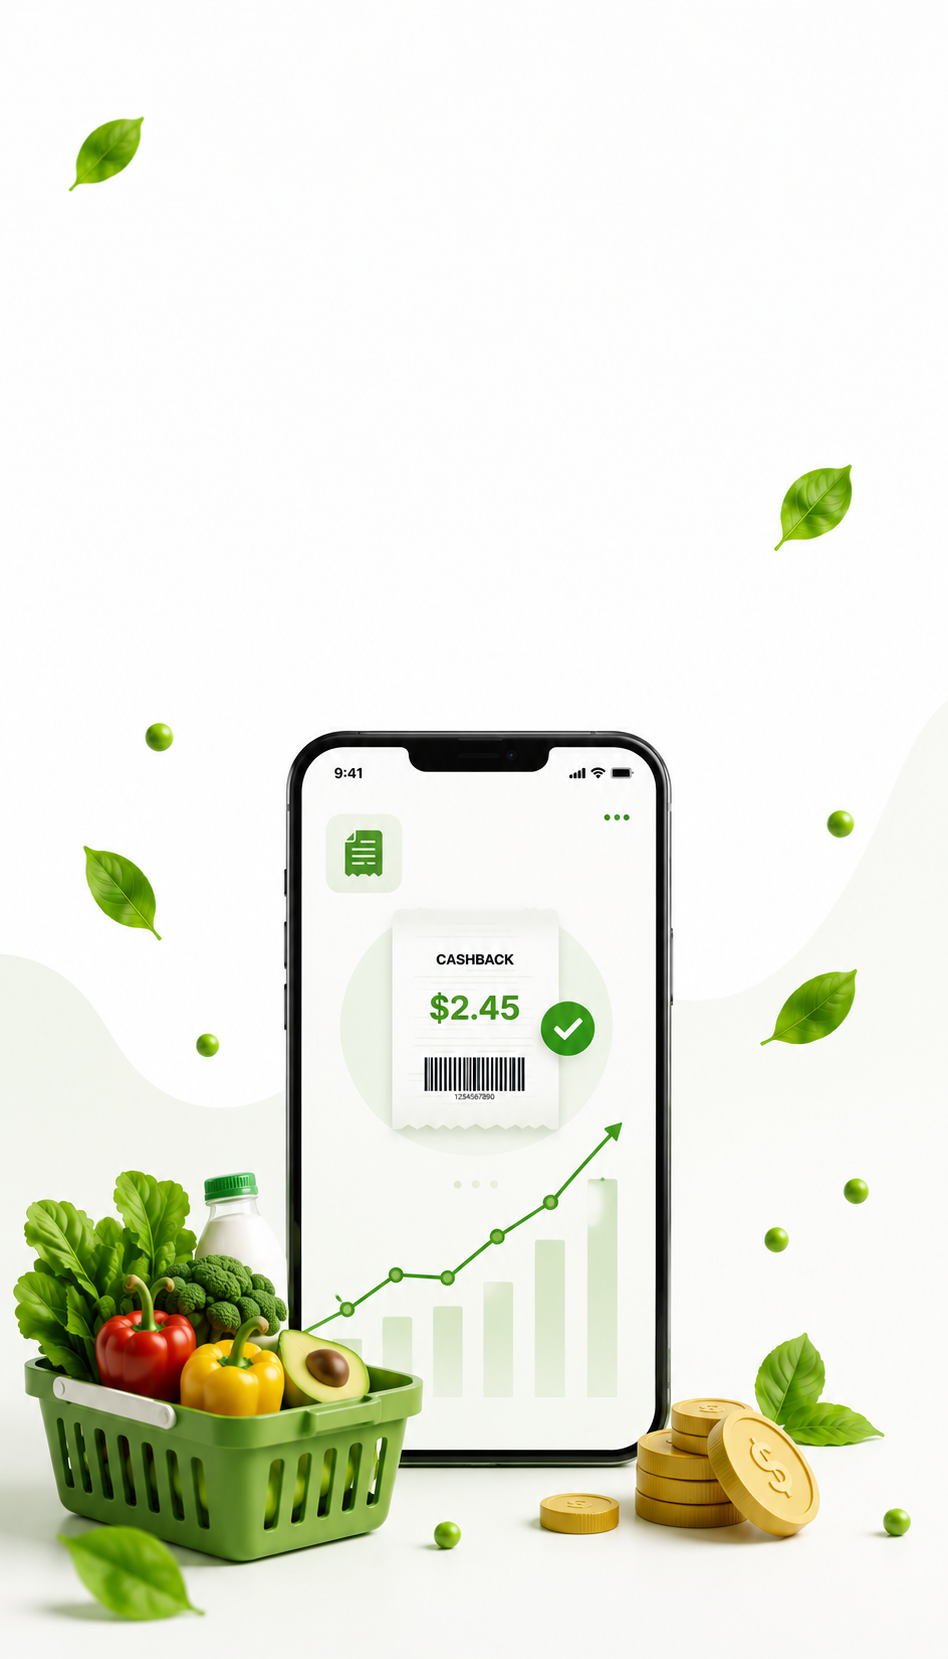
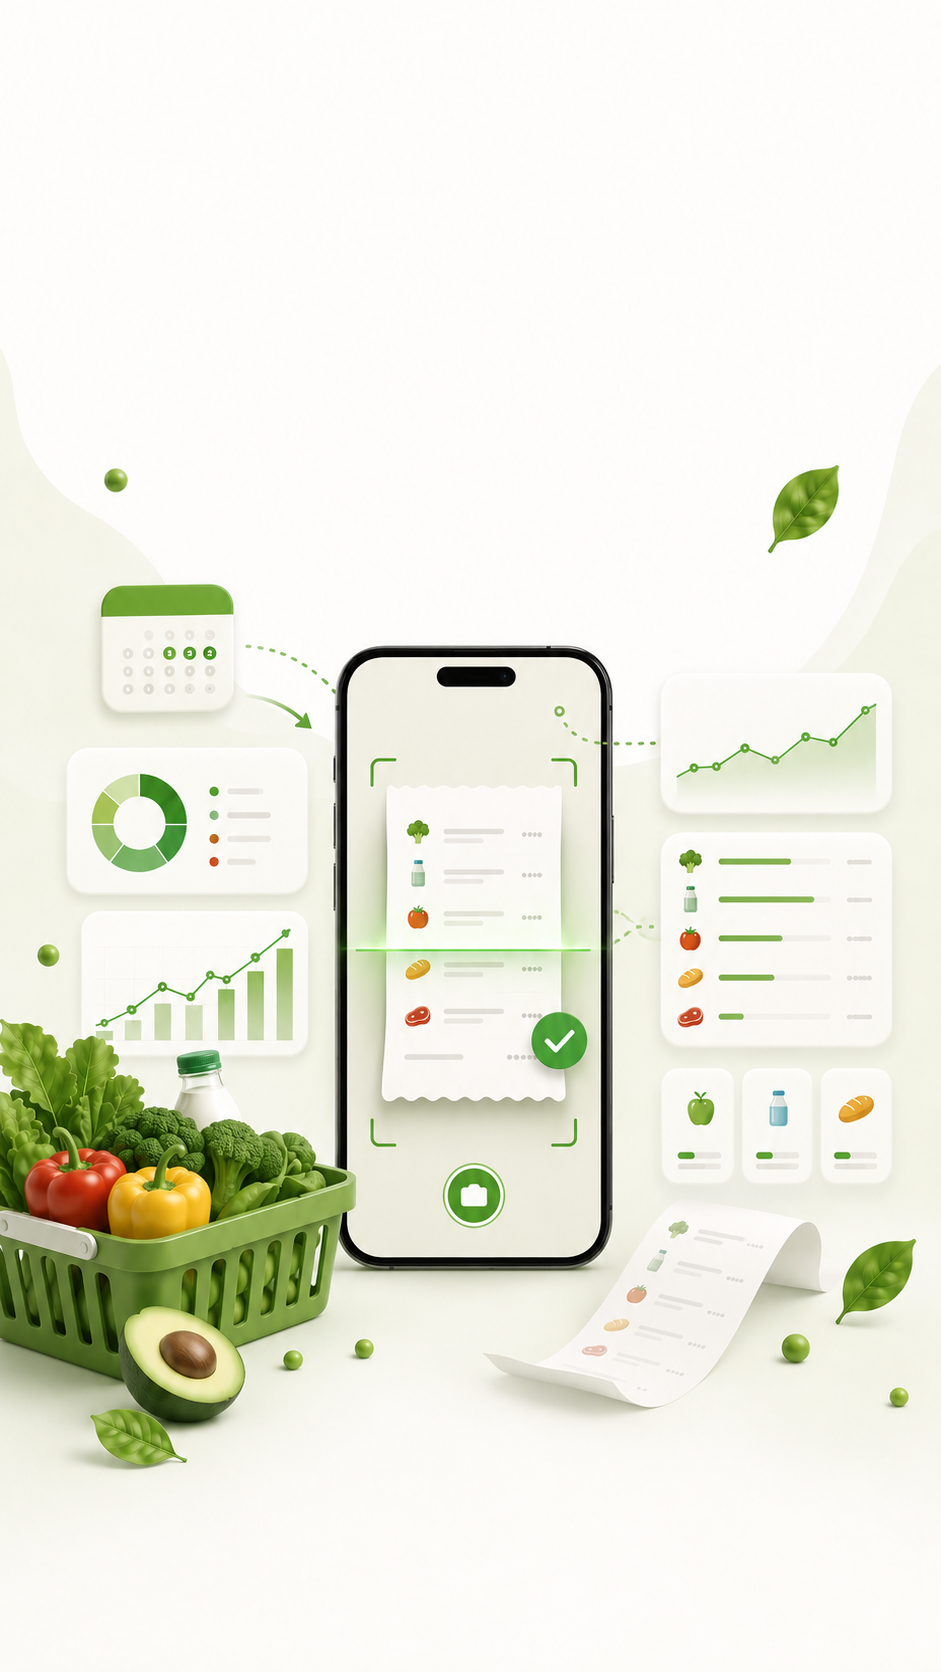
Polish third onboarding scanner screen

diff --git a/lib/features/onboarding/presentation/splash_screen.dart b/lib/features/onboarding/presentation/splash_screen.dart
@@ -18,7 +18,7 @@ import 'package:savingor_app/core/theme/savingor_design_system.dart';
 // Shared greens / CTA / dots use [SavingorColors] + theme-filled buttons where noted.
 // -----------------------------------------------------------------------------
 
-/// Copy colors for slides 3–4 only (indices 2–3); slides 0–1 use approved tokens above.
+/// Copy colors for the final onboarding slide only (index 3); slides 0–2 use approved tokens above.
 abstract final class _OnboardingCopyColors {
   static const Color title = Color(0xFF052E16);
   static const Color subtitle = Color(0xFF14532D);
@@ -51,9 +51,9 @@ class _SplashScreenState extends State<SplashScreen> {
     ),
     _OnboardingPageData(
       imagePath: 'assets/images/onboarding_2.png',
-      title: 'Scan receipts, get cashback',
+      title: 'Scan receipts, save smarter',
       subtitle:
-          'Upload your receipt and unlock exclusive offers and cash rewards.',
+          'See where your money goes and discover better ways to save.',
       buttonLabel: 'Next',
     ),
     _OnboardingPageData(
@@ -112,8 +112,28 @@ class _SplashScreenState extends State<SplashScreen> {
               itemCount: _pages.length,
               onPageChanged: (value) => setState(() => _page = value),
               itemBuilder: (context, index) {
+                final page = _pages[index];
+                // Slide 3: full receipt illustration — contain on matte (no crop vs cover).
+                if (index == 2) {
+                  return ColoredBox(
+                    color: SavingorColors.background,
+                    child: LayoutBuilder(
+                      builder: (context, constraints) {
+                        return Center(
+                          child: Image.asset(
+                            page.imagePath,
+                            fit: BoxFit.contain,
+                            width: constraints.maxWidth,
+                            height: constraints.maxHeight,
+                            alignment: Alignment.center,
+                          ),
+                        );
+                      },
+                    ),
+                  );
+                }
                 final image = Image.asset(
-                  _pages[index].imagePath,
+                  page.imagePath,
                   fit: BoxFit.cover,
                   width: double.infinity,
                   height: double.infinity,
@@ -242,6 +262,184 @@ class _OnboardingCopy extends StatelessWidget {
   /// Current [PageView] index — used to tailor non-brand slides without affecting the hero.
   final int pageIndex;
 
+  static const List<Shadow> _thirdSubtitleShadows = [
+    Shadow(
+      color: Color(0x0A000000),
+      blurRadius: 8,
+      offset: Offset(0, 1),
+    ),
+  ];
+
+  /// Slide 2 (approved) headline stack — frozen; do not alter metrics without sign-off.
+  Widget _approvedSecondSlideCopy(
+    BuildContext context,
+    TextTheme theme, {
+    required double topPadding,
+  }) {
+    final maxCopyW = min(
+      MediaQuery.sizeOf(context).width - 48,
+      340.0,
+    );
+    return Padding(
+      padding: EdgeInsets.only(top: topPadding),
+      child: Align(
+        alignment: Alignment.topCenter,
+        child: ConstrainedBox(
+          constraints: BoxConstraints(maxWidth: maxCopyW),
+          child: Column(
+            mainAxisSize: MainAxisSize.min,
+            crossAxisAlignment: CrossAxisAlignment.center,
+            children: [
+              Text(
+                data.title,
+                textAlign: TextAlign.center,
+                style: theme.headlineMedium?.copyWith(
+                      color: SavingorColors.darkGreen,
+                      fontWeight: FontWeight.w800,
+                      fontSize: 32,
+                      height: 1.16,
+                      letterSpacing: -0.55,
+                      shadows: titleShadows,
+                    ) ??
+                    TextStyle(
+                      color: SavingorColors.darkGreen,
+                      fontWeight: FontWeight.w800,
+                      fontSize: 32,
+                      height: 1.16,
+                      letterSpacing: -0.55,
+                      shadows: titleShadows,
+                    ),
+              ),
+              const SizedBox(height: 12),
+              Text(
+                data.subtitle,
+                textAlign: TextAlign.center,
+                style: theme.bodyLarge?.copyWith(
+                      color: SavingorColors.onboardingSubtitleDeep,
+                      fontSize: 17,
+                      height: 1.56,
+                      fontWeight: FontWeight.w500,
+                      letterSpacing: 0.08,
+                      shadows: titleShadows,
+                    ) ??
+                    TextStyle(
+                      color: SavingorColors.onboardingSubtitleDeep,
+                      fontSize: 17,
+                      height: 1.56,
+                      fontWeight: FontWeight.w500,
+                      letterSpacing: 0.08,
+                      shadows: titleShadows,
+                    ),
+              ),
+            ],
+          ),
+        ),
+      ),
+    );
+  }
+
+  /// Slide 3 — receipt copy; typography tuned for `onboarding_2` art (not slide 1/2 approved block).
+  Widget _thirdSlideCopy(BuildContext context, TextTheme theme) {
+    final screenW = MediaQuery.sizeOf(context).width;
+    final maxTitleW = min(screenW - 44, 332.0);
+    final maxSubtitleW = min(screenW - 48, 310.0);
+
+    const titleSize = 35.0;
+    const titleLineHeight = 1.11;
+    const titleLetterSpacing = -0.38;
+    const titleStrut = StrutStyle(
+      fontSize: titleSize,
+      height: titleLineHeight,
+      fontWeight: FontWeight.w800,
+      leadingDistribution: TextLeadingDistribution.even,
+      forceStrutHeight: true,
+    );
+    const titleBehavior = TextHeightBehavior(
+      applyHeightToFirstAscent: false,
+      applyHeightToLastDescent: false,
+      leadingDistribution: TextLeadingDistribution.even,
+    );
+
+    final titleStyle = theme.headlineMedium?.copyWith(
+          color: SavingorColors.darkGreen,
+          fontWeight: FontWeight.w800,
+          fontSize: titleSize,
+          height: titleLineHeight,
+          letterSpacing: titleLetterSpacing,
+          shadows: titleShadows,
+        ) ??
+        TextStyle(
+          color: SavingorColors.darkGreen,
+          fontWeight: FontWeight.w800,
+          fontSize: titleSize,
+          height: titleLineHeight,
+          letterSpacing: titleLetterSpacing,
+          shadows: titleShadows,
+        );
+
+    final subtitleStyle = theme.bodyLarge?.copyWith(
+          color: SavingorColors.onboardingSubtitleDeep,
+          fontSize: 18.5,
+          height: 1.45,
+          fontWeight: FontWeight.w600,
+          letterSpacing: 0.05,
+          shadows: _thirdSubtitleShadows,
+        ) ??
+        const TextStyle(
+          color: SavingorColors.onboardingSubtitleDeep,
+          fontSize: 18.5,
+          height: 1.45,
+          fontWeight: FontWeight.w600,
+          letterSpacing: 0.05,
+          shadows: _thirdSubtitleShadows,
+        );
+
+    return Padding(
+      padding: const EdgeInsets.only(top: 68),
+      child: Align(
+        alignment: Alignment.topCenter,
+        child: ConstrainedBox(
+          constraints: BoxConstraints(maxWidth: maxSubtitleW + 24),
+          child: ClipRRect(
+            borderRadius: BorderRadius.circular(40),
+            child: ColoredBox(
+              color: Colors.white.withOpacity(0.055),
+              child: Padding(
+                padding: const EdgeInsets.symmetric(horizontal: 10, vertical: 8),
+                child: Column(
+                  mainAxisSize: MainAxisSize.min,
+                  crossAxisAlignment: CrossAxisAlignment.center,
+                  children: [
+                    ConstrainedBox(
+                      constraints: BoxConstraints(maxWidth: maxTitleW),
+                      child: Text(
+                        data.title,
+                        textAlign: TextAlign.center,
+                        textHeightBehavior: titleBehavior,
+                        strutStyle: titleStrut,
+                        style: titleStyle,
+                      ),
+                    ),
+                    const SizedBox(height: 16),
+                    ConstrainedBox(
+                      constraints: BoxConstraints(maxWidth: maxSubtitleW),
+                      child: Text(
+                        data.subtitle,
+                        textAlign: TextAlign.center,
+                        textHeightBehavior: titleBehavior,
+                        style: subtitleStyle,
+                      ),
+                    ),
+                  ],
+                ),
+              ),
+            ),
+          ),
+        ),
+      ),
+    );
+  }
+
   @override
   Widget build(BuildContext context) {
     final theme = Theme.of(context).textTheme;
@@ -261,66 +459,11 @@ class _OnboardingCopy extends StatelessWidget {
 
     // APPROVED (slide 1): Headline + subtitle block — frozen typography & position.
     if (pageIndex == 1) {
-      final maxCopyW = min(
-        MediaQuery.sizeOf(context).width - 48,
-        340.0,
-      );
-      return Padding(
-        padding: const EdgeInsets.only(top: 70),
-        child: Align(
-          alignment: Alignment.topCenter,
-          child: ConstrainedBox(
-            constraints: BoxConstraints(maxWidth: maxCopyW),
-            child: Column(
-              mainAxisSize: MainAxisSize.min,
-              crossAxisAlignment: CrossAxisAlignment.center,
-              children: [
-                Text(
-                  data.title,
-                  textAlign: TextAlign.center,
-                  style: theme.headlineMedium?.copyWith(
-                        color: SavingorColors.darkGreen,
-                        fontWeight: FontWeight.w800,
-                        fontSize: 32,
-                        height: 1.16,
-                        letterSpacing: -0.55,
-                        shadows: titleShadows,
-                      ) ??
-                      TextStyle(
-                        color: SavingorColors.darkGreen,
-                        fontWeight: FontWeight.w800,
-                        fontSize: 32,
-                        height: 1.16,
-                        letterSpacing: -0.55,
-                        shadows: titleShadows,
-                      ),
-                ),
-                const SizedBox(height: 12),
-                Text(
-                  data.subtitle,
-                  textAlign: TextAlign.center,
-                  style: theme.bodyLarge?.copyWith(
-                        color: SavingorColors.onboardingSubtitleDeep,
-                        fontSize: 17,
-                        height: 1.56,
-                        fontWeight: FontWeight.w500,
-                        letterSpacing: 0.08,
-                        shadows: titleShadows,
-                      ) ??
-                      TextStyle(
-                        color: SavingorColors.onboardingSubtitleDeep,
-                        fontSize: 17,
-                        height: 1.56,
-                        fontWeight: FontWeight.w500,
-                        letterSpacing: 0.08,
-                        shadows: titleShadows,
-                      ),
-                ),
-              ],
-            ),
-          ),
-        ),
-      );
+      return _approvedSecondSlideCopy(context, theme, topPadding: 70);
+    }
+
+    if (pageIndex == 2) {
+      return _thirdSlideCopy(context, theme);
     }
 
     return Column(
